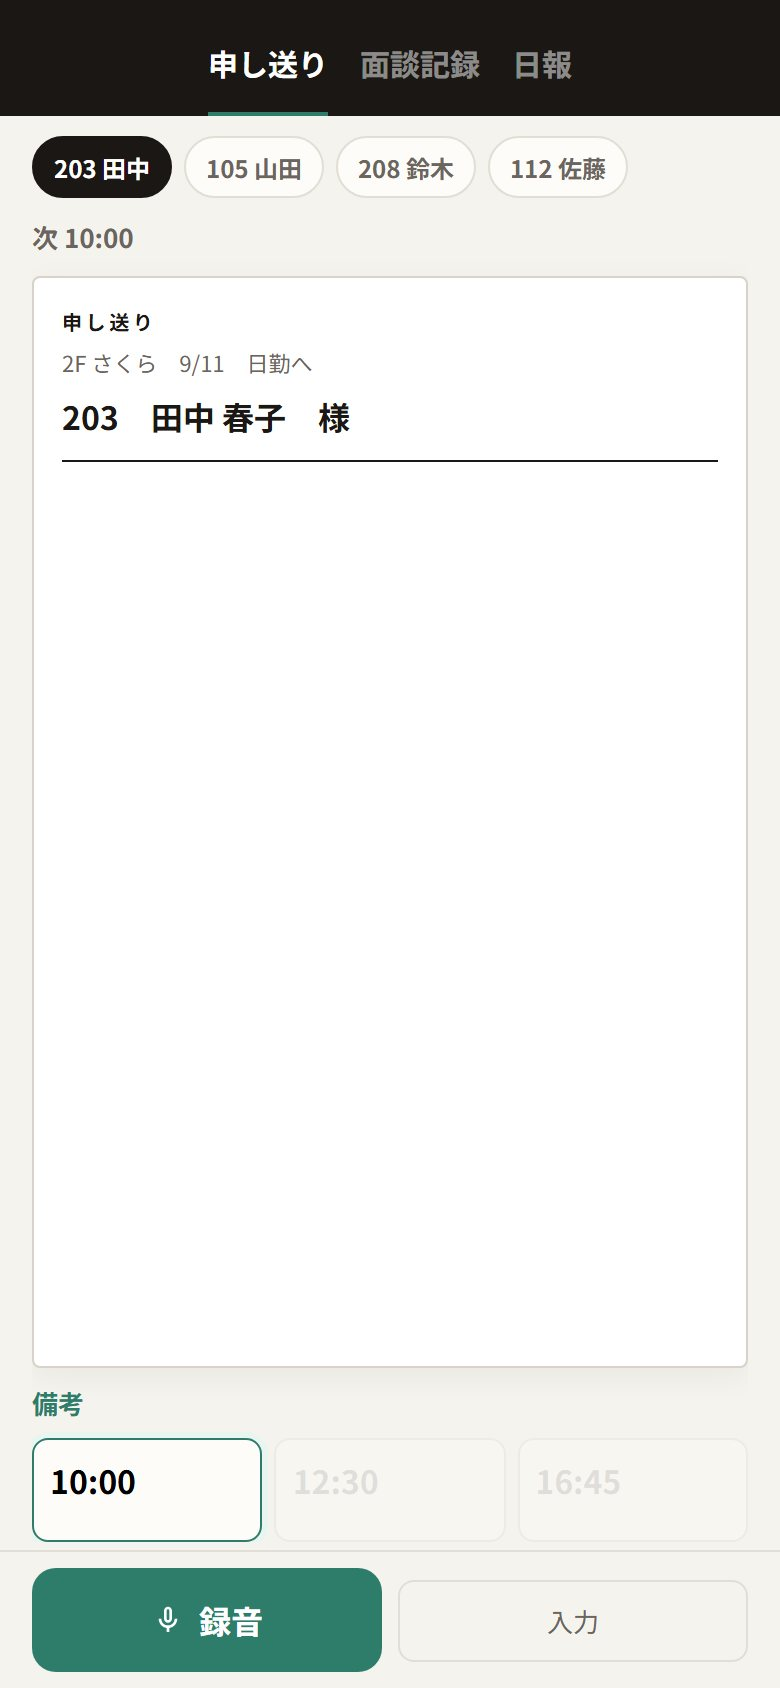
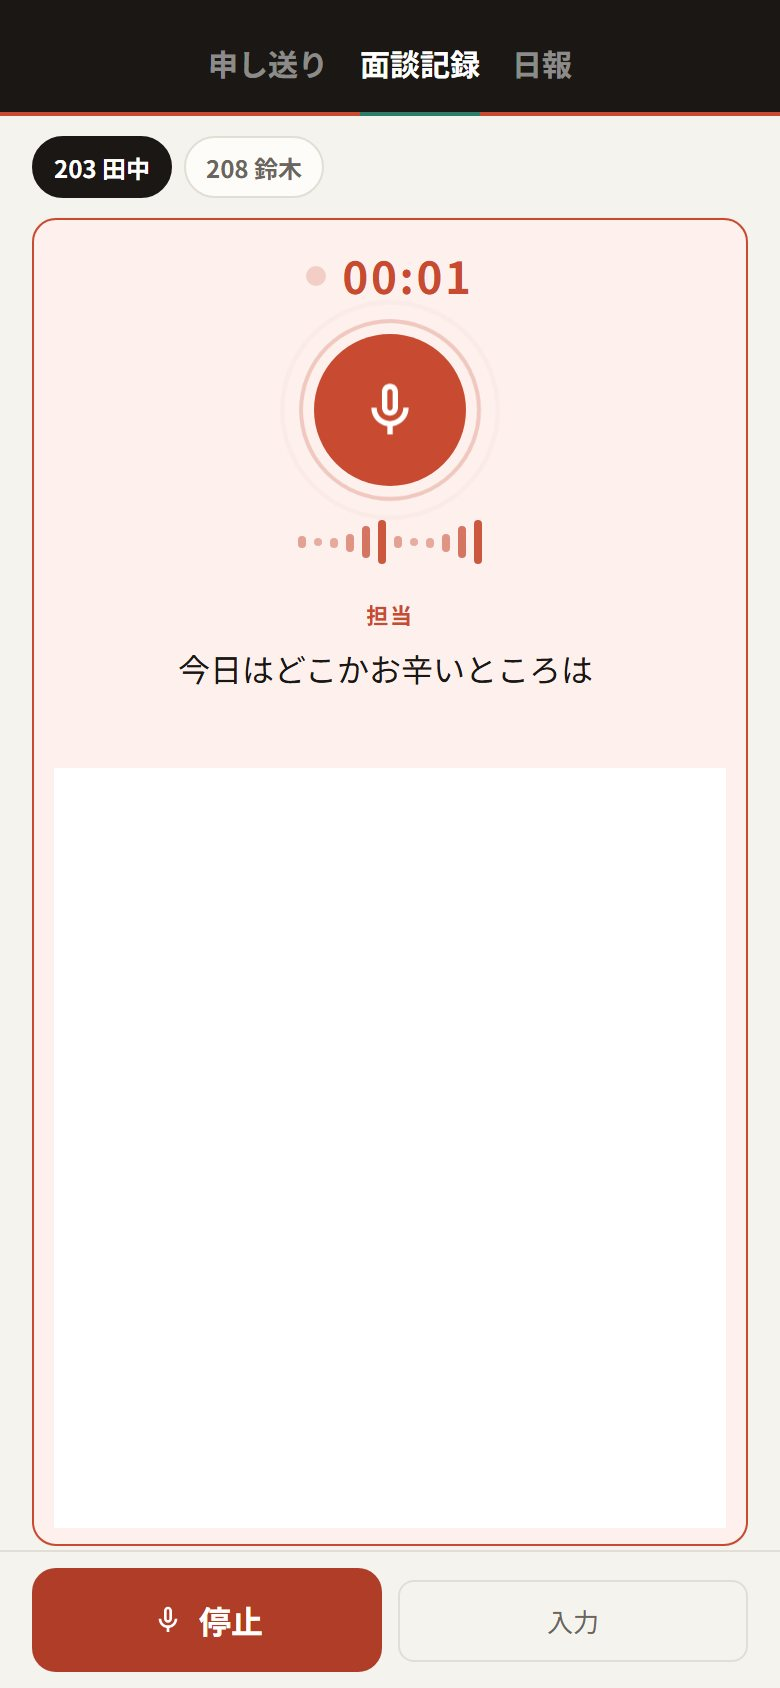
画像差し替え

diff --git a/src/data.js b/src/data.js
@@ -144,7 +144,7 @@ export const DEMOS = [
     can:['申し送りメモの整理と確認ができます','面談・日報の画面に進めます','記録一覧への反映を確認できます'],
     planned:['要確認項目→提出→一覧の実画面検証'],
     shots:[
-      { key:'form', cap:'メモを入れる', image:'/images/demos/kaigo-handoff/01.jpg' },
+      { key:'form', cap:'録音する', image:'/images/demos/kaigo-handoff/01.jpg' },
       { key:'list', cap:'面談を確認', image:'/images/demos/kaigo-handoff/02.jpg' },
       { key:'card', cap:'日報を見る', image:'/images/demos/kaigo-handoff/03.jpg' }
     ],

diff --git a/docs/screenshot-rollout.md b/docs/screenshot-rollout.md
@@ -1,0 +1,115 @@
+# URL付きデモのスクショ／ヒーロー展開
+
+作成日：2026-09-11  
+対象：`ideal_pf` の詳細下層（3枚）と、詳細ヒーロー／トップカードの斜め端末
+
+トップのおすすめ5件は実装済み。残りは **同じデータ形に `image` を足すだけ**で、ヒーローも下層も実画像になる。描画コードの追加は原則不要。
+
+## すでに入っている仕組み
+
+| 場所 | 動き |
+|---|---|
+| `shots[].image` あり | 詳細の横スクロール3枚が実画像 |
+| 先頭の `image` | 詳細ヒーローと、トップ sticky カードの斜め端末に同じ1枚を切り出す |
+| `image` なし | 従来の CSS 模式図（`.scr` / `.amock`） |
+
+保存先は `public/images/demos/<id>/01.jpg` `02.jpg` `03.jpg`。Vite は `public/` をルート配信する。
+
+データ形：
+
+```js
+shots: [
+  { key: 'form', cap: '質問する', image: '/images/demos/internal-knowledge/01.jpg' },
+  { key: 'list', cap: '根拠を見る', image: '/images/demos/internal-knowledge/02.jpg' },
+  { key: 'form', cap: '資料を入れる', image: '/images/demos/internal-knowledge/03.jpg' }
+]
+```
+
+旧形式 `['form','質問する']` も読める。`image` を足すときにオブジェクトへ直す。
+
+先頭の1枚がヒーローになるので、**いちばん印象の強い画面を 01 にする**（申し送りは録音HUD、建設は写真格子、など）。
+
+## 撮影ルール
+
+- 幅 **390×844**、`deviceScaleFactor: 2`、JPEG quality 84 前後
+- ログイン・同意・サンプル案内があれば閉じてから撮る
+- 3枚は画面が違うこと（ファイルサイズやハッシュが同じなら撮り直し）
+- 到達できない画面は入口＋近い2画面で埋め、キャプションを実画面に合わせる
+- 個人情報・実名は写さない（デモの架空名は可）
+- 生成AI画像は使わない
+- カード全面に写真は貼らない。端末フレーム内だけ
+
+撮影スクリプトの置き場：`scripts/capture-featured.mjs`（おすすめ5件）。残りは同型で `scripts/capture-available.mjs` を足すか、件ごとに関数を追加する。
+
+## 残件（URLあり・未撮影）16件
+
+キャプションは現行 `shots` を初期値にする。実画面と違ったら撮ったあと直す。
+
+### 1. 介護・保育
+
+| ID | URL | 3枚の狙い（現行キャプション） |
+|---|---|---|
+| `voice-karte-simple` | lambent-smakager-7bcf0a.netlify.app | メモ / 整理 / 結果 |
+| `kaigo-3role` | kaigo-operation-demo.vercel.app | 現場 / 内勤 / 医療連携 |
+| `childcare` | ideal-tomy.github.io/childcare_demo | 記録する / 確認する / 帳票 |
+
+### 2. 製造
+
+| ID | URL | 3枚の狙い |
+|---|---|---|
+| `approval-inspection` | approval-diagram.vercel.app | 照合 / 保留・承認 / 基準 |
+| `cause-demo` | cause-demo.vercel.app | 状況 / 原因 / 説明 |
+| `product-flow-mfg` | product-flow-jet.vercel.app/manufacturing | 質問する / 回答を見る / 次の判断 |
+
+### 3. 建設
+
+| ID | URL | 3枚の狙い |
+|---|---|---|
+| `contractor-matching` | hookapp-demo.vercel.app | 候補を見る / スコア / 応答 |
+| `field-dandori` | rainbow-tarsier-5ce845.netlify.app | 条件を入れる / 計画 / 出力 |
+
+### 4. 自治体・地域
+
+| ID | URL | 3枚の狙い |
+|---|---|---|
+| `disaster-facility` | disaster-prevention-demo.vercel.app | 施設を選ぶ / 状態を見る / 判断する |
+| `gym-facility` | disaster-prevention-demo02.vercel.app | 施設 / カルテ / 判断 |
+| `chiiki-bunka` | chiiki-demo-site.vercel.app | 地域 / 提案 / 詳細 |
+
+### 5. 飲食・ナレッジ・人材
+
+| ID | URL | 3枚の狙い |
+|---|---|---|
+| `shikomi-record` | shikomi-record-demo.vercel.app | 状況を見る / 記録する / 知見 |
+| `internal-knowledge` | internal-knowledge-demo.vercel.app | 質問する / 根拠を見る / 資料を入れる |
+| `haken-dash` | haken-dash.vercel.app | 案件 / 候補 / 更新 |
+| `sfa-legal` | sfa-legal.vercel.app | 受付 / 判断 / 次アクション |
+| `vietnam-haken` | vietnam-demo-zeta.vercel.app | 候補 / マッチ / 進捗 |
+
+## URLなし（今は撮らない）7件
+
+`linkState: preparing` のまま。公開URLが付いたら、上と同じ手順で `image` を足す。
+
+- `manufacturing-compare`
+- `assist-reception`
+- `inspection-record`
+- `expense-optimize`
+- `pharmacy-transfer`
+- `property-match`
+- `sns-post`
+
+## 1件あたりの作業
+
+1. 本番URLを 390px で開き、撮る3画面を決める（現行キャプションを起点）
+2. `public/images/demos/<id>/01-03.jpg` に保存
+3. `src/data.js` の `shots` を `{ key, cap, image }` にする。01 はヒーロー向けに選ぶ
+4. 詳細 `?demo=<id>` で下層3枚とヒーロー端末を確認
+5. 問題なければ `main` へ（まとめて数件でも可）
+
+ヒーロー用の CSS/SVG 追加は不要。`firstShotImage()` が先頭画像を端末に入れる。
+
+## 進め方
+
+一度に16件撮るとクリック失敗で同一画像が並びやすいので、上のグループ単位（3〜4件）で撮って確認する。
+
+おすすめ5件のやり直しは、`node scripts/capture-featured.mjs`。申し送りの 01 は面談 `/karte` で「録音の同意」→「録音」した RecHud（大きいマイク）を使う。
